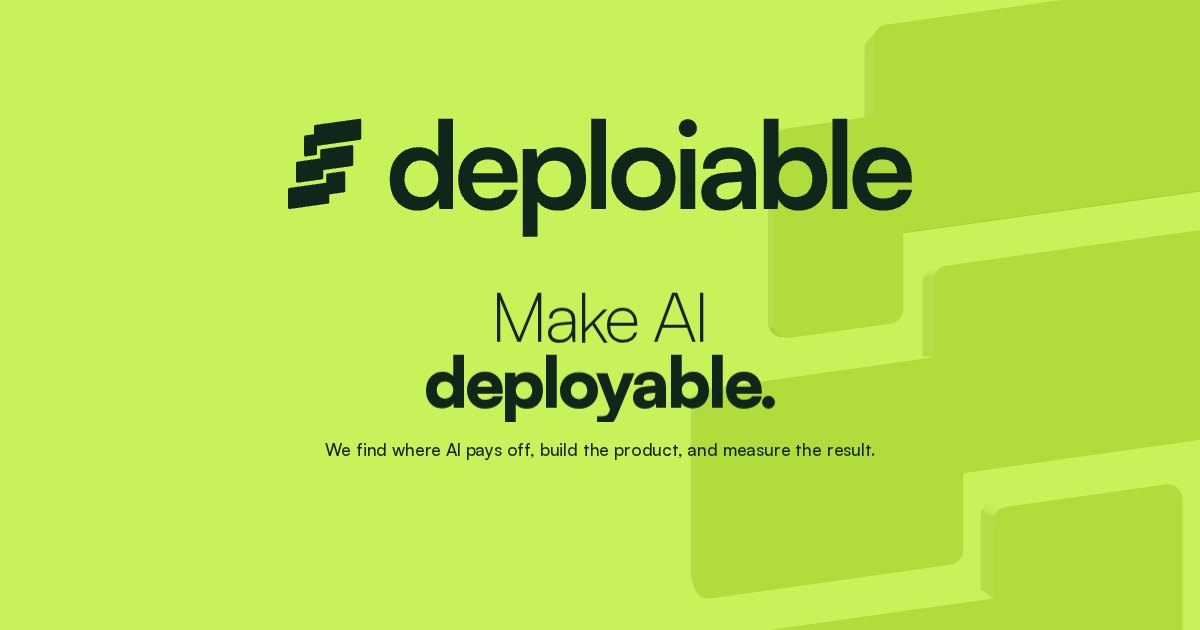
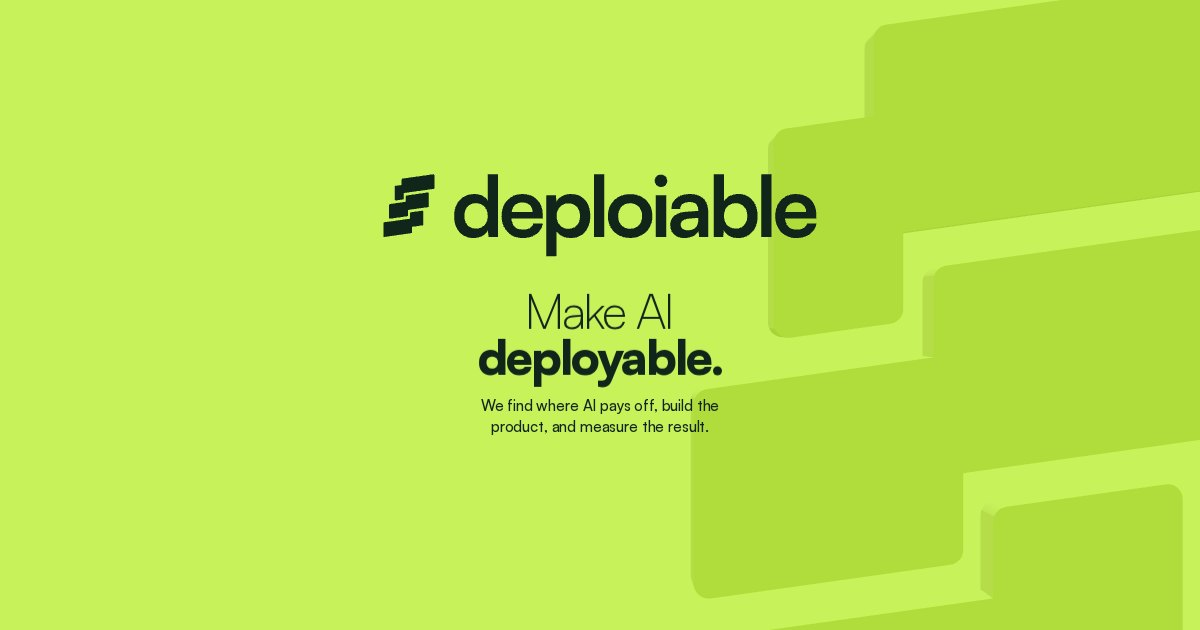
Blocco centrato in altezza su ogni schermo, più respiro su telefono, "y" di deployable non più tagliata
- La larghezza del logo dipende anche dall'altezza: il blocco occupa circa il 64% dello schermo, centro ottico al 46%
- In verticale frase più grande e spazi più ampi
- Maschera della frase estesa a discendenti e ascendenti, con test che confronta testo mascherato e libero

Claude-Session: https://claude.ai/code/session_01PeA7XYbHTW5WLG5P8a7u88

Changed region(s): [[0.2158, 0.181, 0.7708, 0.4222], [0.2775, 0.4524, 0.74, 0.7238]]

diff --git a/site/src/styles/main.css b/site/src/styles/main.css
@@ -17,9 +17,13 @@
 
   /* Composizione del finale: il logo orizzontale in alto, la frase sotto, tutto centrato sulla pagina.
      La larghezza del logo è l'unica misura: la camera 3D inquadra il segnaposto .logo-slot (src/gl/stage.ts). */
-  --logo-w: min(88vw, max(52vw, 360px), 150svh);
+  /* la larghezza dipende anche dall'altezza: il blocco intero (logo, frase, sottotitolo, modulo) occupa al massimo
+     circa due terzi dello schermo, così su finestre larghe e basse resta centrato con aria sopra e sotto */
+  --logo-w: min(88vw, max(52vw, 360px), calc(110svh - 260px));
   /* corpo della frase: 1/9 del logo (1/7 su schermi verticali) */
   --claim-fs: calc(var(--logo-w) / 9);
+  /* spazio fra logo, frase e blocco iscrizione */
+  --gap: calc(var(--logo-w) / 14);
   color-scheme: dark;
 }
 
@@ -88,9 +92,9 @@ p {
   display: flex;
   flex-direction: column;
   justify-content: center;
-  gap: calc(var(--logo-w) / 14);
+  gap: var(--gap);
   /* il centro ottico sta un po' sopra il centro geometrico */
-  padding-bottom: 8svh;
+  padding-bottom: 3svh;
 }
 
 .logo-slot {
@@ -133,15 +137,16 @@ p {
 }
 /* "Make AI" non ha discendenti e "deployable." ha le ascendenti: le due righe si avvicinano un po'. */
 .mask + .mask {
-  margin-top: -0.1em;
+  margin-top: -0.25em; /* −0,15 em della maschera e −0,1 em per avvicinare le righe */
 }
 
 .mask {
   display: block;
   overflow: hidden;
-  /* la maschera taglia solo in verticale: ai lati si estende oltre il blocco senza spostare il layout */
-  padding: 0 0.5em 0.08em;
-  margin: 0 -0.5em -0.08em;
+  /* la maschera taglia solo il testo che sta entrando: si estende oltre la riga in ogni direzione (ascendenti,
+     discendenti come la "y" di deployable, spalle laterali) senza spostare il layout di un pixel */
+  padding: 0.15em 0.5em 0.3em;
+  margin: -0.15em -0.5em -0.3em;
 }
 .line {
   display: block;
@@ -151,7 +156,7 @@ p {
 /* ---------- Sottotitolo ---------- */
 /* Dice per chi e cosa si ottiene: il metodo in tre verbi. Più vicino alla frase che al blocco iscrizione. */
 .sub {
-  margin: calc(var(--logo-w) / 14 * -0.55) auto 0;
+  margin: calc(var(--gap) * -0.55) auto 0;
   max-width: min(100%, 36em);
   font-size: clamp(15px, calc(var(--claim-fs) * 0.25), 21px);
   font-weight: 500;
@@ -391,8 +396,13 @@ p {
 /* Su schermi verticali (telefono) il logo occupa quasi tutta la larghezza e sotto c'è molto spazio:
    la frase è più grande, in proporzione. */
 @media (max-aspect-ratio: 1/1) {
+  /* in verticale c'è molta altezza libera: frase più grande e più respiro fra i blocchi */
   :root {
-    --claim-fs: calc(var(--logo-w) / 7);
+    --claim-fs: calc(var(--logo-w) / 6.2);
+    --gap: calc(var(--logo-w) / 9.5);
+  }
+  .sub {
+    font-size: 16px;
   }
 }
 
@@ -400,7 +410,7 @@ p {
 /* Di default (prima che parta il JavaScript) il testo è nascosto: niente anticipazioni, la suspense parte subito. */
 
 .line {
-  transform: translateY(110%);
+  transform: translateY(150%);
 }
 
 .gl,
@@ -501,7 +511,7 @@ p {
   from { transform: translateY(-40%); opacity: 0; }
 }
 @keyframes rise {
-  from { transform: translateY(110%); }
+  from { transform: translateY(150%); }
 }
 @keyframes letters-in {
   from { opacity: 0; }

diff --git a/site/tests/e2e/film.spec.ts b/site/tests/e2e/film.spec.ts
@@ -18,11 +18,11 @@ test('parte in WebGL, senza errori e senza scroll', async ({ page }) => {
 
 test('suspense: nessun testo finché le barre non scattano al loro posto', async ({ page }) => {
   await openFilm(page);
-  // il browser normalizza lo stile in "translate3d(0px, 110%, 0px)": si legge la percentuale verticale
+  // il browser normalizza lo stile in "translate3d(0px, 150%, 0px)": si legge la percentuale verticale
   const offset = () =>
     page.evaluate(() => Array.from(document.querySelectorAll<HTMLElement>('.line')).map((l) => parseFloat(/,\s*(-?[\d.]+)%/.exec(l.style.transform)?.[1] ?? 'NaN')));
   const subHidden = () => page.locator('.sub').evaluate((el) => getComputedStyle(el).opacity === '0');
-  const hidden = async () => (await offset()).every((v) => v === 110) && (await subHidden());
+  const hidden = async () => (await offset()).every((v) => v === 150) && (await subHidden());
   for (const t of [0.8, TIMES.segreto, TIMES.deploy, TIMES.silenzio, SILENZIO_A + 0.4]) {
     await seek(page, t);
     expect(await hidden(), `t=${t}`).toBe(true);
@@ -366,4 +366,23 @@ test('ritmo verticale: stesso spazio a inchiostro fra logo e frase e fra sottoti
   const a = line1.T - logo.B;
   const b = soon.T - sub.B;
   expect(Math.abs(a - b), `logo→frase ${a}px, sottotitolo→blocco ${b}px`).toBeLessThanOrEqual(3);
+});
+
+test('la frase non è mai tagliata: discendenti e ascendenti interi dentro la maschera', async ({ page }) => {
+  await openFilm(page, '', 'high');
+  await seek(page, END);
+  for (const sel of ['.line--light', '.line--black']) {
+    // l'inchiostro della riga, misurato senza maschera, deve coincidere con quello visibile
+    const shot = async () => {
+      const b = (await page.locator(sel).boundingBox())!;
+      const png = PNG.sync.read(await page.screenshot({ clip: { x: b.x - 20, y: b.y - 40, width: b.width + 40, height: b.height + 80 } }));
+      let n = 0;
+      for (let i = 0; i < png.data.length; i += 4) if (png.data[i] + png.data[i + 1] + png.data[i + 2] < 160) n++;
+      return n;
+    };
+    const masked = await shot();
+    await page.addStyleTag({ content: '.mask { overflow: visible !important; }' });
+    const free = await shot();
+    expect(Math.abs(free - masked), `${sel}: pixel tagliati dalla maschera`).toBeLessThanOrEqual(2);
+  }
 });

diff --git a/site/src/app.ts b/site/src/app.ts
@@ -77,7 +77,7 @@ export async function start(caps: Capabilities) {
     backdrop.apply(state, engine.bgCamera, engine.width, engine.height);
     claim.forEach((el, i) => {
       const p = Math.min(1, Math.max(0, state.claim * 1.25 - i * 0.25));
-      el.style.transform = `translate3d(0, ${((1 - p) * 110).toFixed(2)}%, 0)`;
+      el.style.transform = `translate3d(0, ${((1 - p) * 150).toFixed(2)}%, 0)`;
     });
     // "Coming soon", modulo e nota: entrano uno dopo l'altro (80 ms), salendo di poco; finché sono invisibili
     // non si possono raggiungere col tab
@@ -98,7 +98,7 @@ export async function start(caps: Capabilities) {
   measureSlot();
   // Stato iniziale: testo nascosto prima del primo disegno, poi si attende font e shader.
   stateAt(0, state);
-  claim.forEach((el) => (el.style.transform = 'translate3d(0, 110%, 0)'));
+  claim.forEach((el) => (el.style.transform = 'translate3d(0, 150%, 0)'));
   await document.fonts.ready;
   // Riscaldamento: shader e geometrie vengono compilati e caricati sulla GPU ora, con la pagina ancora
   // nel Forest iniziale, così nessun scatto arriva all'incastro (9,2 s) o al lampo (10,2 s).
